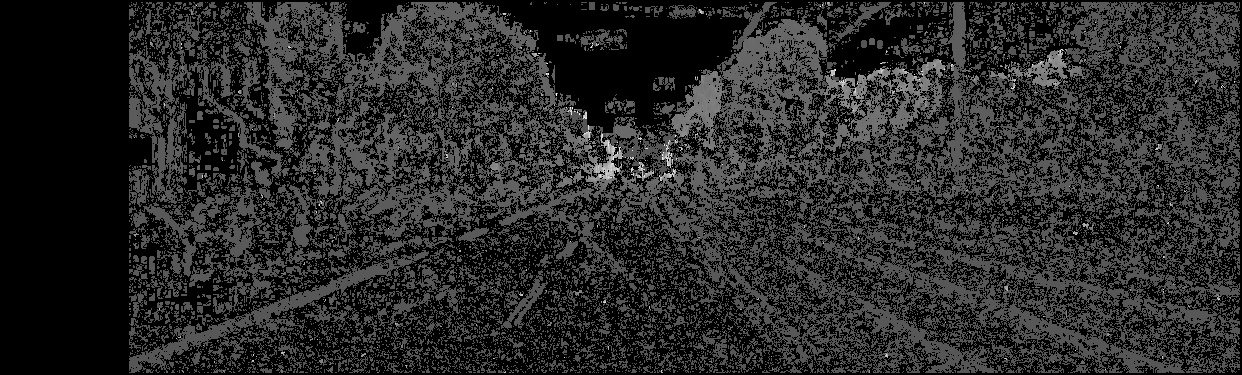
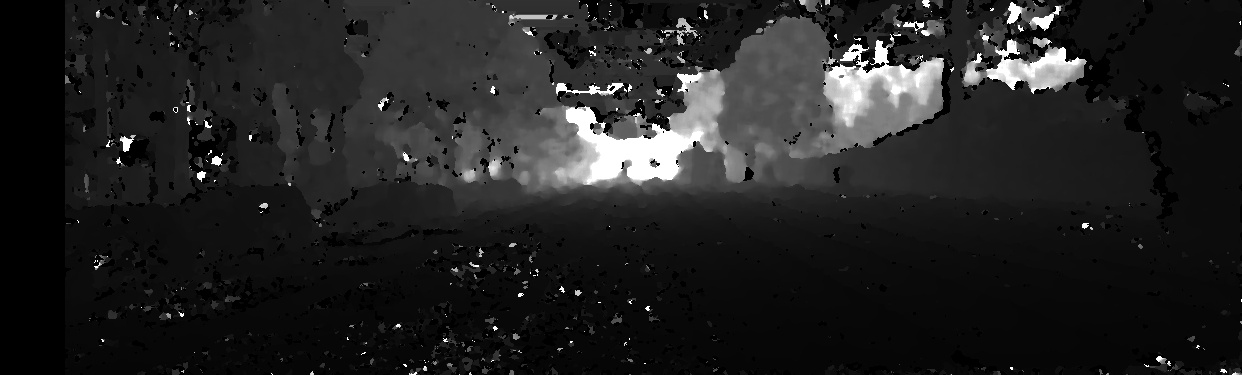
Update disparity and depth code

diff --git a/depth.py b/depth.py
@@ -1,0 +1,43 @@
+import cv2 as cv
+import numpy as np
+import matplotlib.pyplot as plt
+
+# Compute disparity of images
+def computeDisparity(image_left, image_right, num_disparities, block_size, min_disparity):
+    stereo = cv.StereoSGBM_create(numDisparities=num_disparities, blockSize=block_size, minDisparity=min_disparity)
+    disparity = stereo.compute(image_left, image_right).astype(np.float32)/16
+    return disparity
+
+# Compute depth of images
+def computeDepth(disparity_map, T, f):
+    depth = np.divide(f * T, disparity_map, where=disparity_map!=0)
+    return depth
+
+def getCameraParams(calib_file):
+    with open(calib_file) as f:
+        line = f.readlines()[1].split()
+        f = float(line[1])
+        T = -float(line[4])/f 
+    return f, T
+
+if __name__ == "__main__":
+    # Image ID
+    image_id = 'umm_000000'
+
+    # Camera parameters (from calibration file)
+    calib_file = f'data/train/calib/{image_id}.txt'
+    f, T = getCameraParams(calib_file)
+
+    # Read images
+    image_left = cv.imread(f'data/train/image_left/{image_id}.jpg', cv.IMREAD_GRAYSCALE)
+    image_right = cv.imread(f'data/train/image_right/{image_id}.jpg', cv.IMREAD_GRAYSCALE)
+
+    # Compute disparity and visualize
+    disparity = computeDisparity(image_left, image_right, 64, 9, 1)
+    disparity_map = cv.normalize(disparity, None, alpha=0, beta=255, norm_type=cv.NORM_MINMAX)
+    cv.imwrite(f'outputs/disparity_map_{image_id}.jpg', disparity_map)
+
+    # Compute depth and visualize
+    depth = computeDepth(disparity, T, f)
+    depth_map = cv.normalize(depth, None, alpha=0, beta=1, norm_type=cv.NORM_MINMAX)
+    cv.imwrite(f'outputs/depth_map_{image_id}.jpg', depth)
